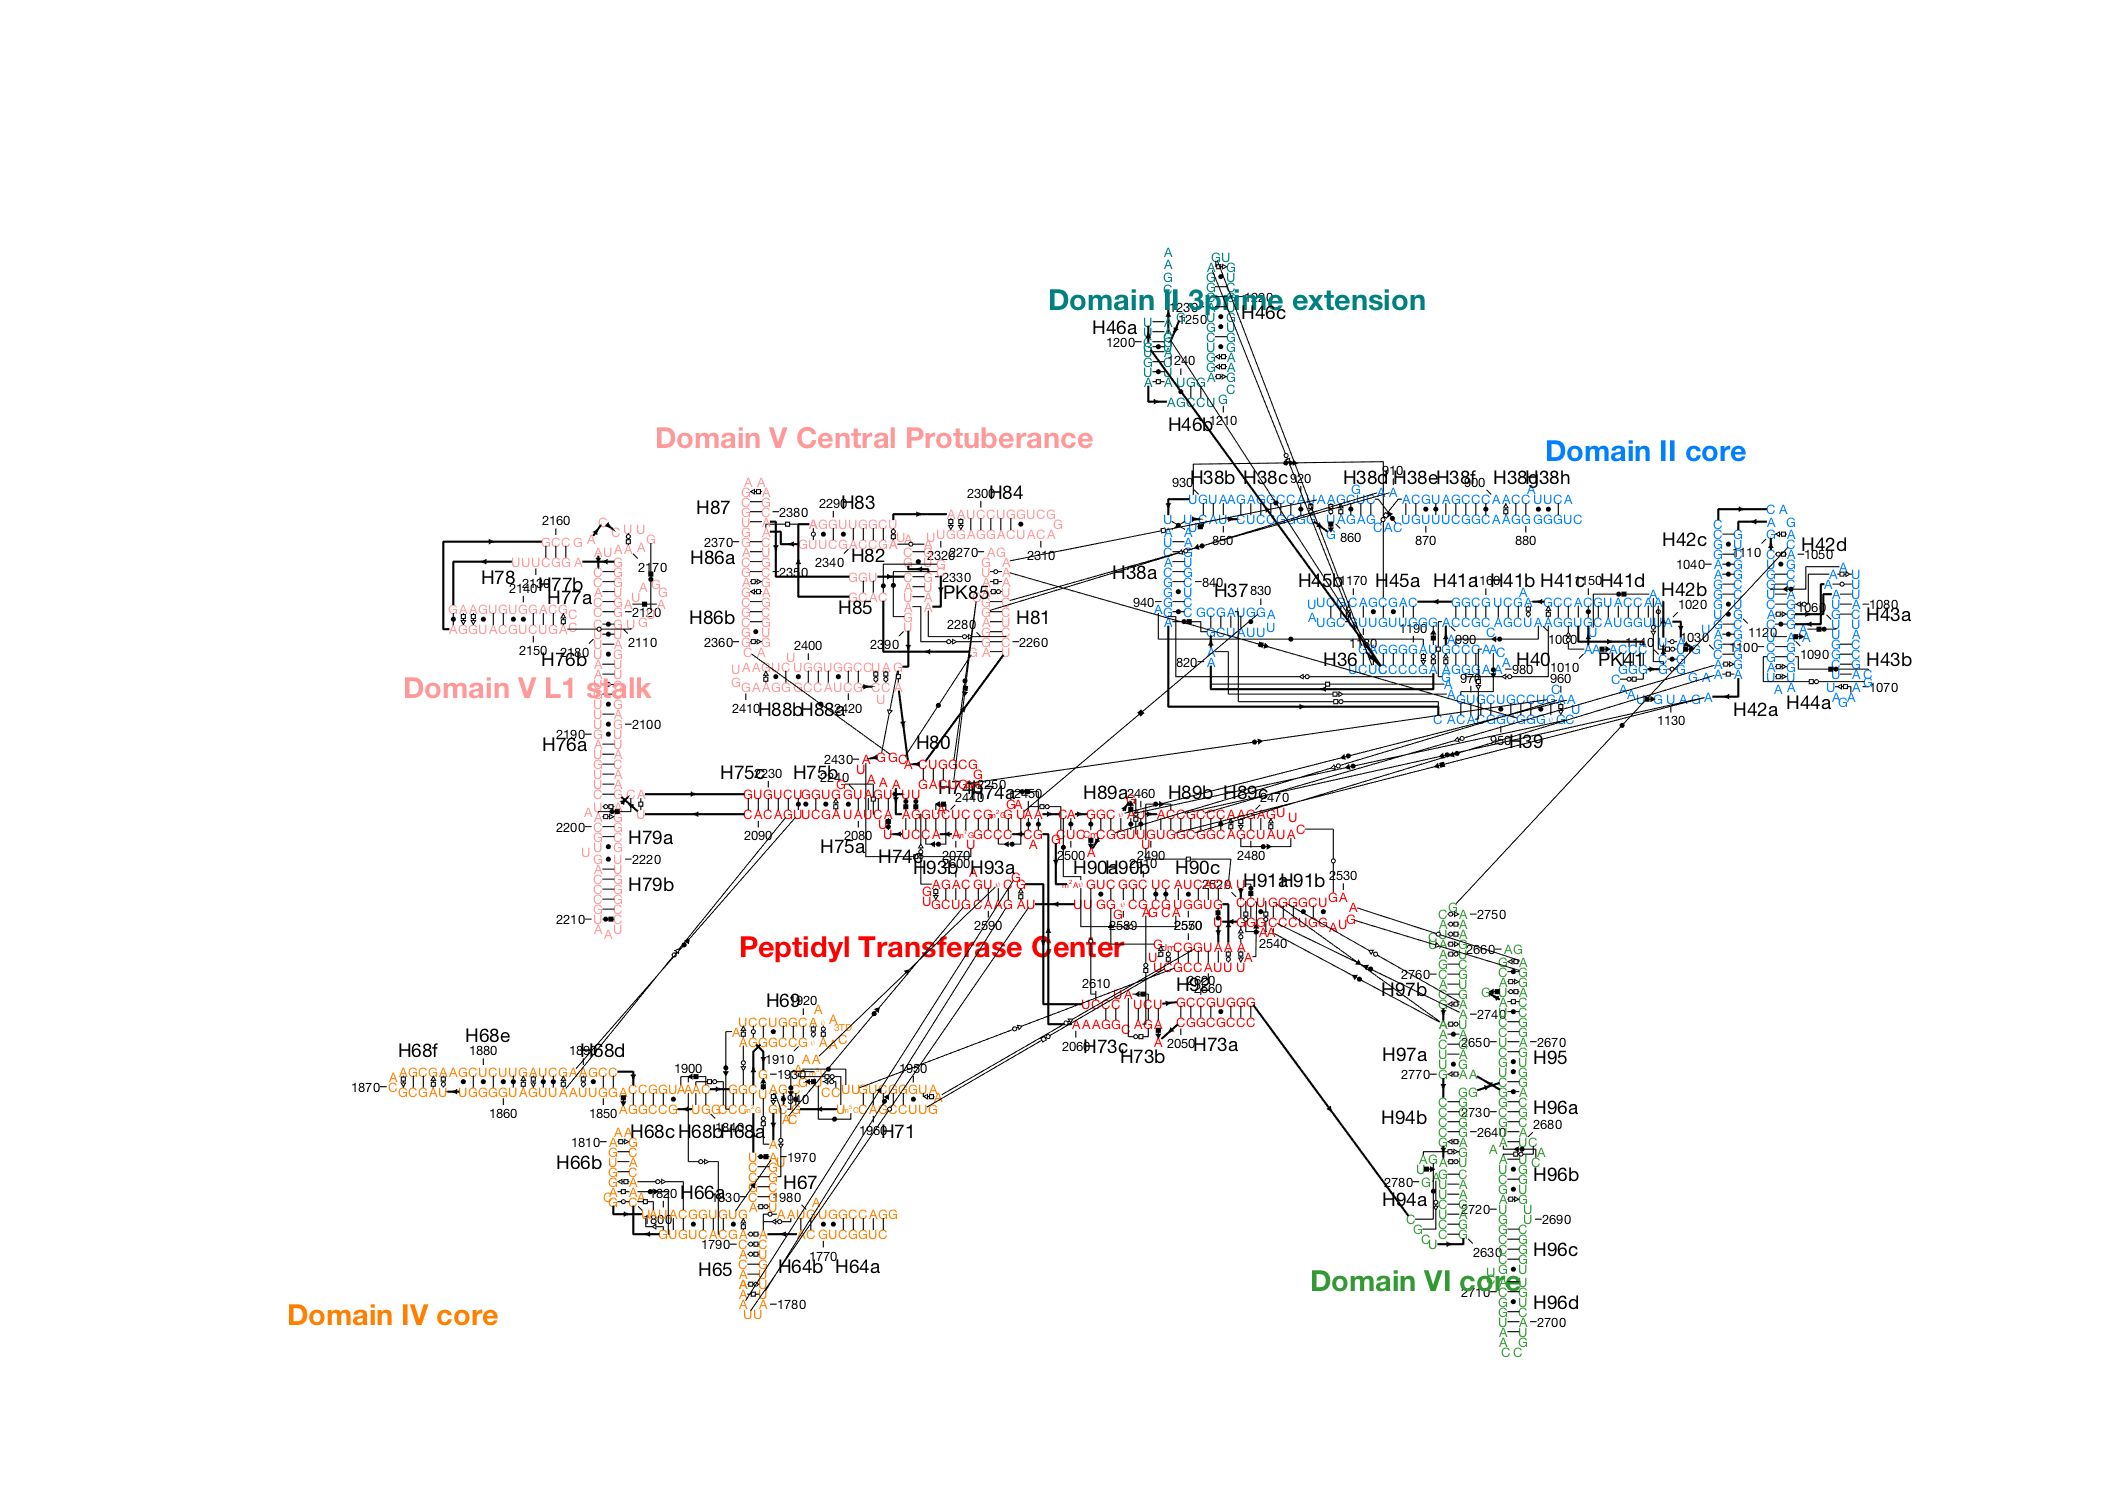
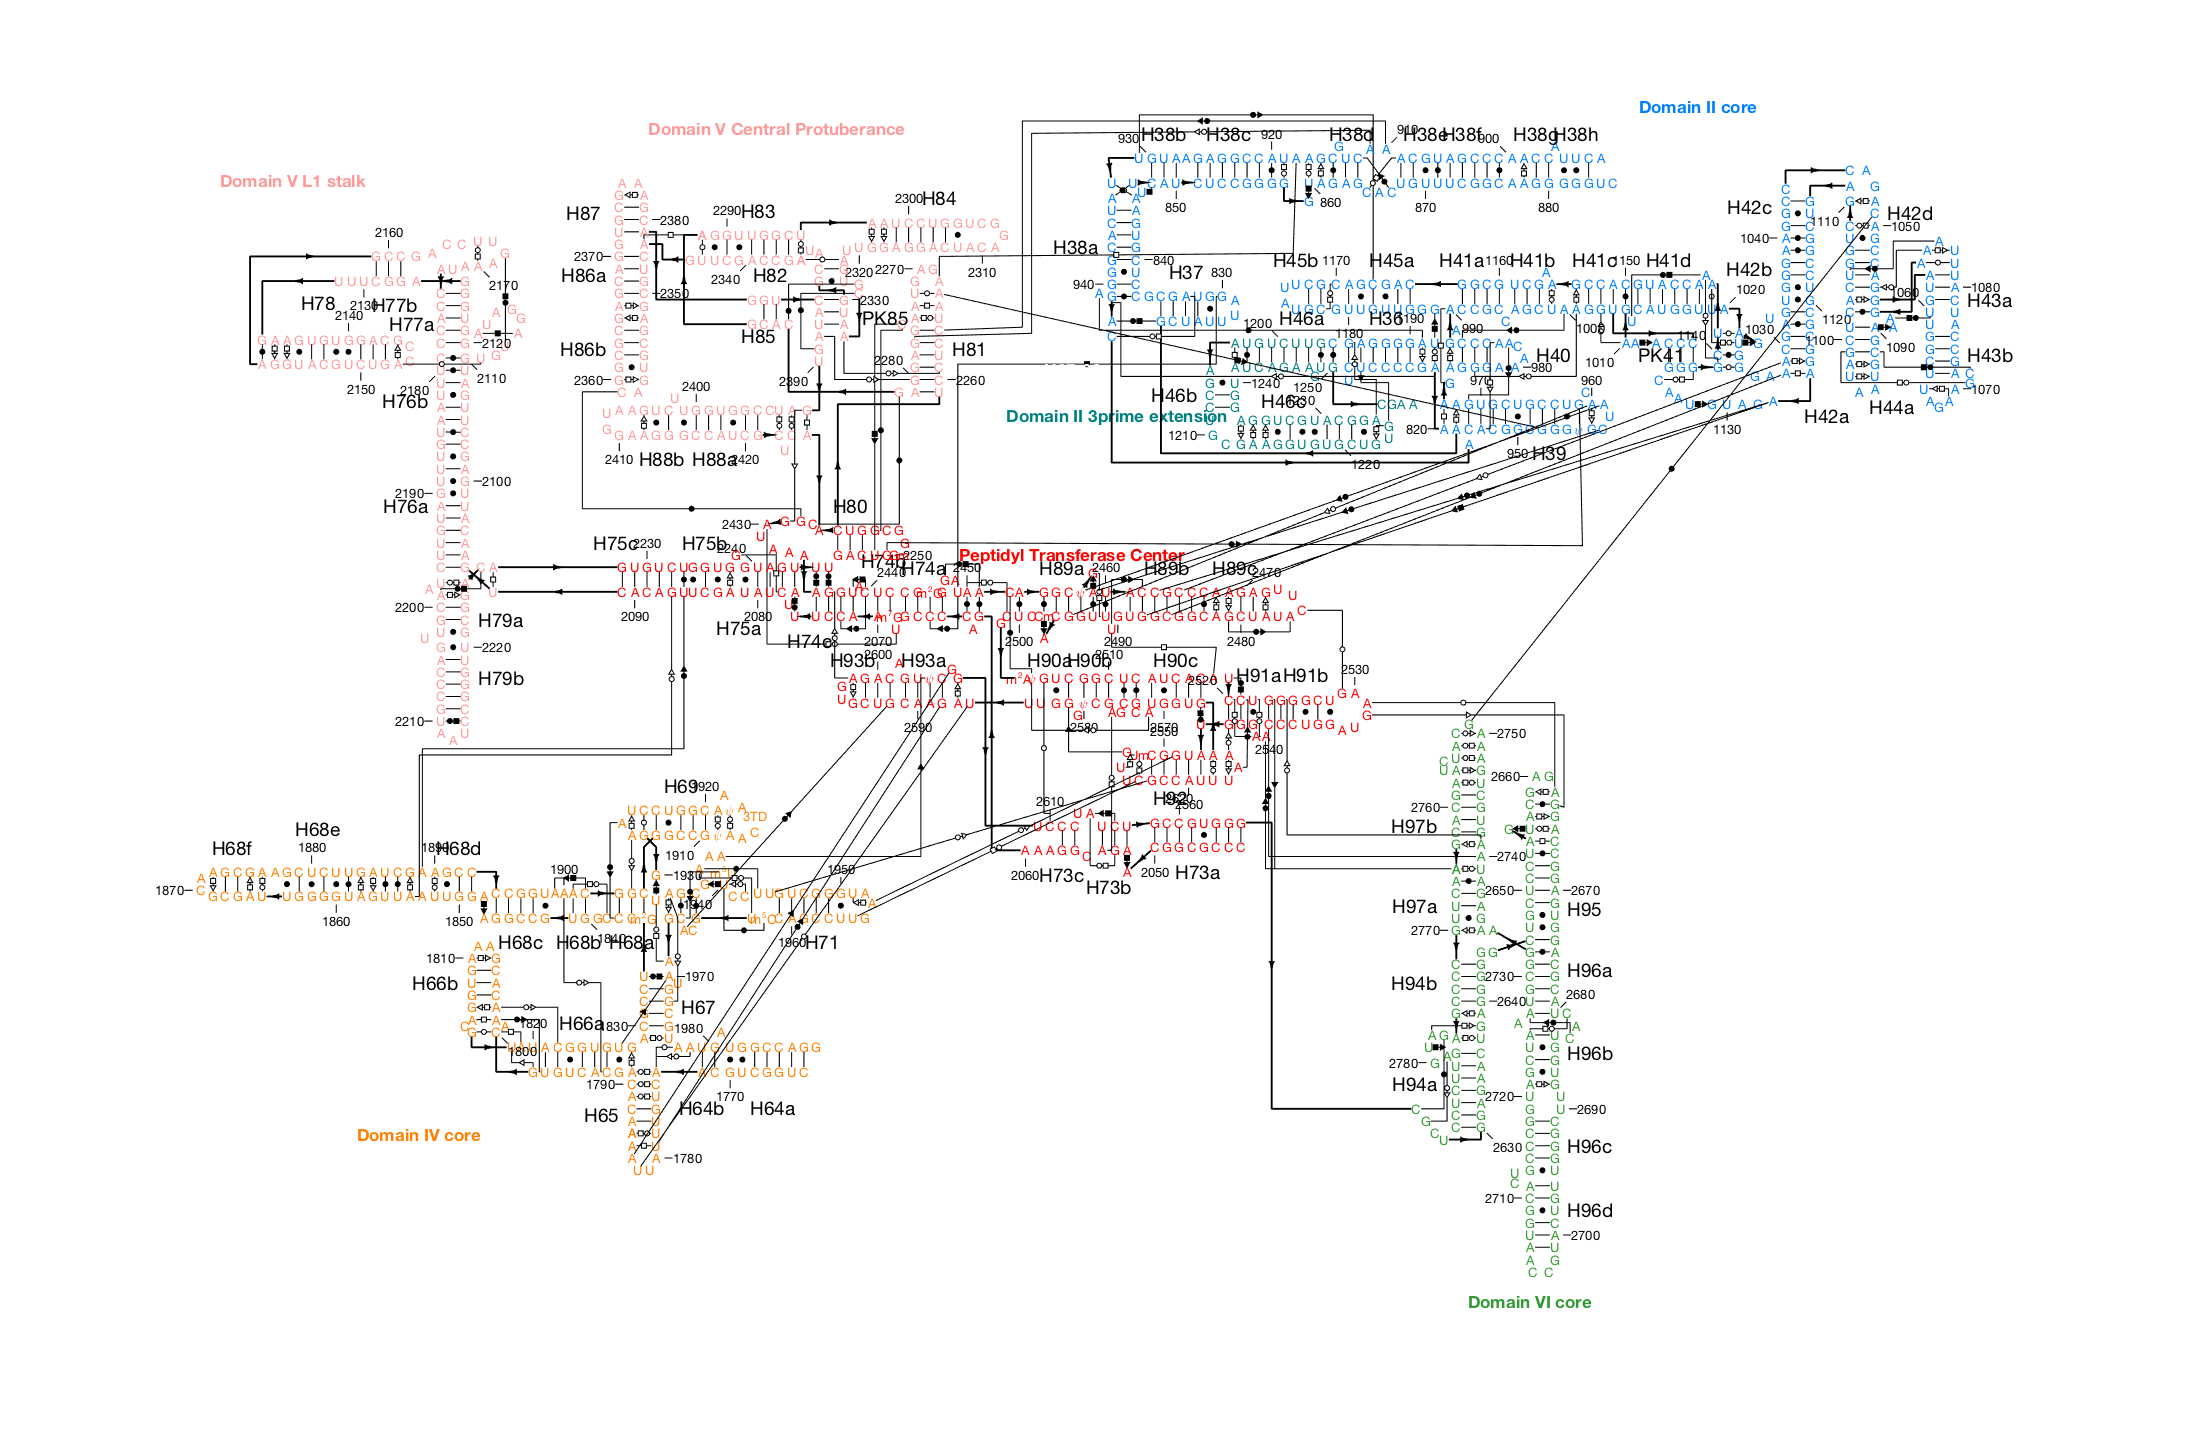
bug fixes to fontsize, load drawing. almost there on 23S FrontLayer

diff --git a/Scripts/selections/show_selection_controls.m b/Scripts/selections/show_selection_controls.m
@@ -3,15 +3,22 @@ if ~exist( 'setting', 'var' ) setting = 1; end;
 if ~exist( 'selection_tag', 'var' ) selection_tag = ''; end;
 
 plot_settings = getappdata( gca, 'plot_settings' );
+tags= {};
 if strcmp( selection_tag, 'Domain' )
     plot_settings.show_domain_controls = setting;
     setappdata( gca, 'plot_settings', plot_settings );
+    selection_tags = get_tags( 'Selection_');
+    tags = {};
+    for i = 1:length(selection_tags);
+        selection = getappdata( gca, selection_tags{i});
+        if strcmp( selection.type, 'domain' ) tags = [tags, selection_tags{i} ]; end;
+    end    
 elseif strcmp( selection_tag, 'coaxial_stack' )
     plot_settings.show_coax_controls = setting;
     setappdata( gca, 'plot_settings', plot_settings );
+    tags = get_tags( 'Selection_', selection_tag );
 end
 
-tags = get_tags( 'Selection_', selection_tag );
 if ( setting == 1 )
     draw_selections( tags );
 end
@@ -20,6 +27,15 @@ end
 if setting; visible = 'on'; else; visible = 'off'; end;
 for n = 1:length(tags)
     selection = getappdata( gca, tags{n} );
-    if isfield( selection, 'rectangle' ); set( selection.rectangle,'visible', visible); end;
-    if isfield( selection, 'auto_text' ); set( selection.auto_text,'visible', visible); end;
+    set_visibility( selection, {'rectangle','auto_text','click_center','reflect_line_horizontal1','reflect_line_horizontal2','reflect_line_vertical1','reflect_line_vertical2'}, visible );
+end
+
+%%%%%%%%%%%%%%%%%%%%%%%%%%%%%%%%%%%%%%%%%%%%%%%%%%%%%%%%%%%
+function set_visibility( selection, handle_names, visible );
+for i = 1:length( handle_names )
+    handle_name = handle_names{i};
+    if isfield( selection, handle_name ); 
+        handle = getfield( selection, handle_name );
+        set( handle ,'visible', visible); 
+    end;
 end

diff --git a/Scripts/drawing/load_drawing.m b/Scripts/drawing/load_drawing.m
@@ -40,6 +40,10 @@ for i = 1:length( datafields )
                 if ~isfield( datum, field )
                     datum = setfield( datum, field, getfield(olddatum,field) );
                 end
+                if strcmp( field, 'linkers' ) & isfield( datum, field )
+                    % special case. 
+                    datum.linkers = unique( [olddatum.linkers, datum.linkers ] ); 
+                end
             end
         end
         loaddata = setfield( loaddata, datafield, datum );

diff --git a/Scripts/drawing/export_drawing.m b/Scripts/drawing/export_drawing.m
@@ -26,6 +26,7 @@ print( filename, opt );
 fprintf( 'Created: %s\n', filename ); 
 
 show_helix_controls ( plot_settings.show_helix_controls );
-show_selection_controls( plot_settings.show_selection_controls );
+show_domain_controls( plot_settings.show_domain_controls );
+show_coax_controls( plot_settings.show_coax_controls );
 show_linker_controls( plot_settings.show_linker_controls );
 

diff --git a/Scripts/settings/reset_fontsize.m b/Scripts/settings/reset_fontsize.m
@@ -1,7 +1,6 @@
-function reset_fontsize( redraw );
-if ~exist( 'redraw','var') redraw = 1; end;
+function reset_fontsize( fontsize );
 xlim = get(gca,'xlim' );
-fontsize = 2000/(xlim(2)-xlim(1));
+if ~exist( 'fontsize', 'var' ) fontsize = 2000/(xlim(2)-xlim(1)); end;
 % change font size accordingly
 set_fontsize( fontsize );
 set_linker_width( fontsize );

diff --git a/Scripts/helix/redraw_res_and_helix.m b/Scripts/helix/redraw_res_and_helix.m
@@ -3,7 +3,7 @@ function redraw_res_and_helix( h )
 % Call this after dragging.
 % (C) R. Das, Stanford University, 2017
 delete_crosshair();
-pos = get(h,'position'); 
+pos = get(h,'position');
 res_tag = getappdata( h, 'res_tag' );
 residue = getappdata(gca,res_tag );
 original_plot_pos = residue.plot_pos;

diff --git a/Scripts/settings/set_linker_width.m b/Scripts/settings/set_linker_width.m
@@ -1,7 +1,7 @@
 function set_linker_width( fontsize )
 % set_linker_width( fontsize )
 
-arrow_linewidth = max( 0.6, fontsize*1.5/10 )
+arrow_linewidth = max( 0.6, fontsize*1.5/10 );
         
 %%%%%%%%%%%%%%%%%%%%%%%%%%%%%%%%%%%%%%%%%%%%%
 % Actually go and fix up lines

diff --git a/README.md b/README.md
@@ -13,10 +13,8 @@ _(C) Rhiju Das, Stanford University, 2017_
 
 ## TODO
 ### Immediate
-* reflection/rotation of domains [domain II 3prime ext]
-* make sure import_domain overwrites prior residues
 * Fix chains for 5S RNA
-* Refine 820-821 (domain II core -- move back to H39)
+
 
 * protein/exit tunnel representation
 
